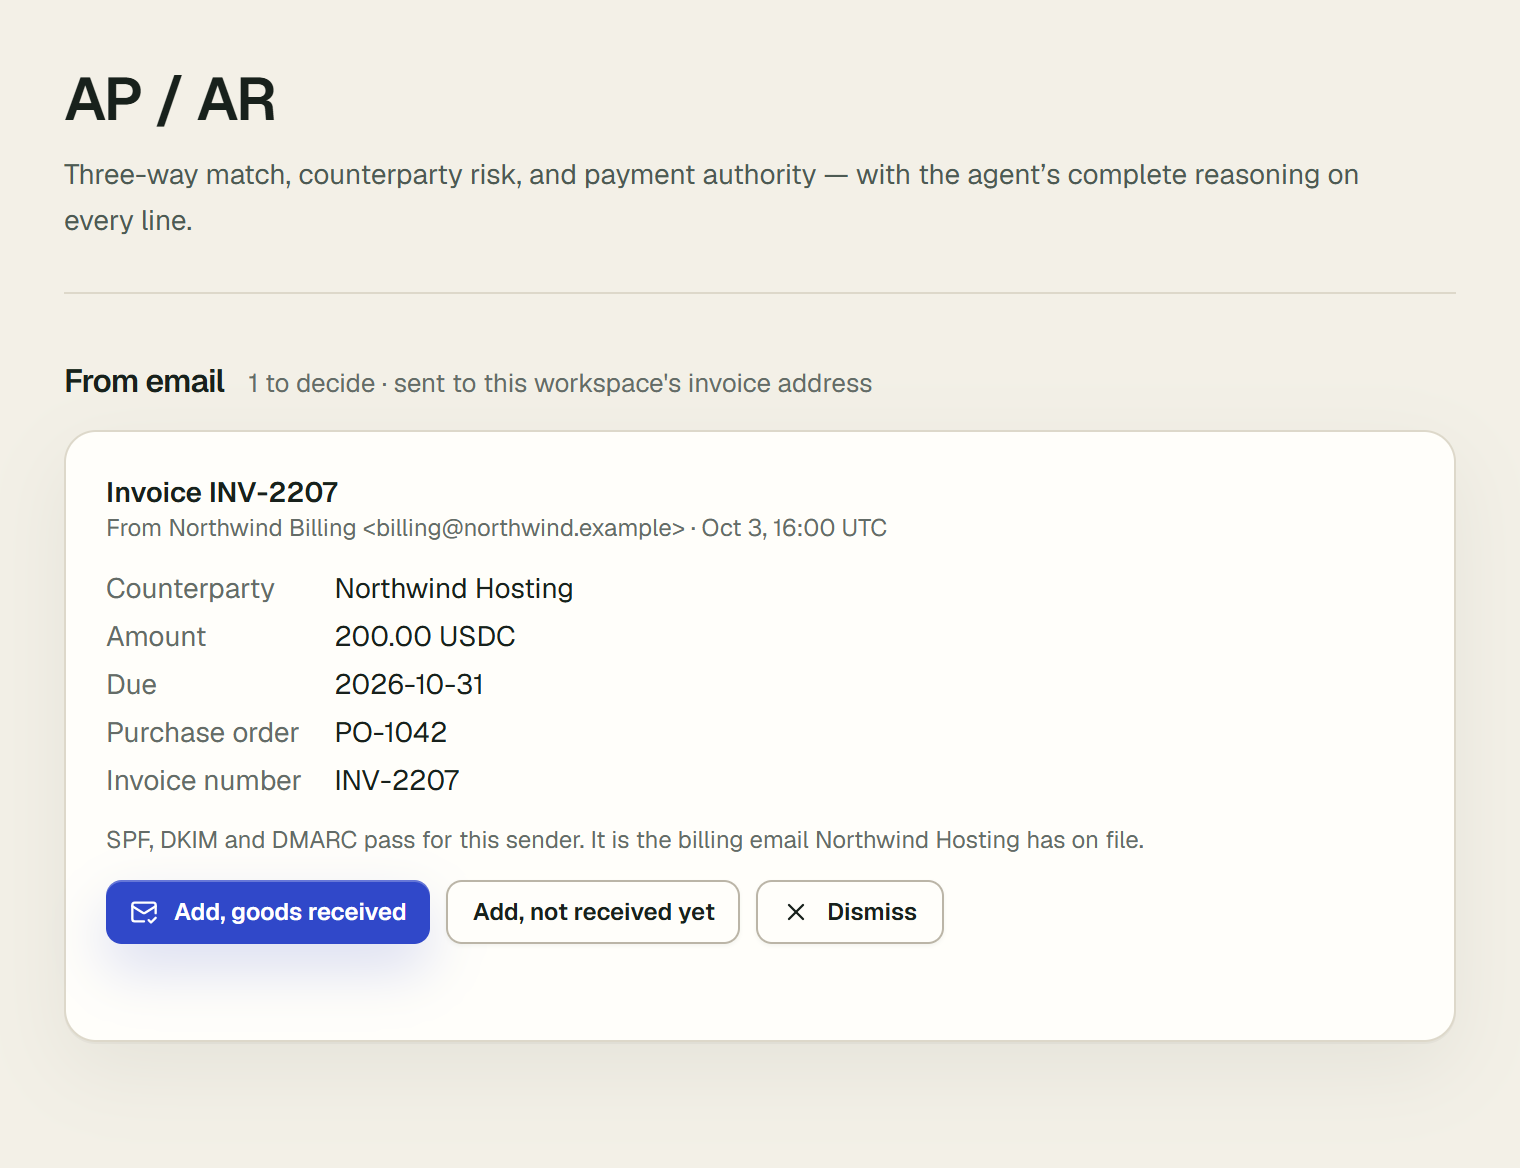
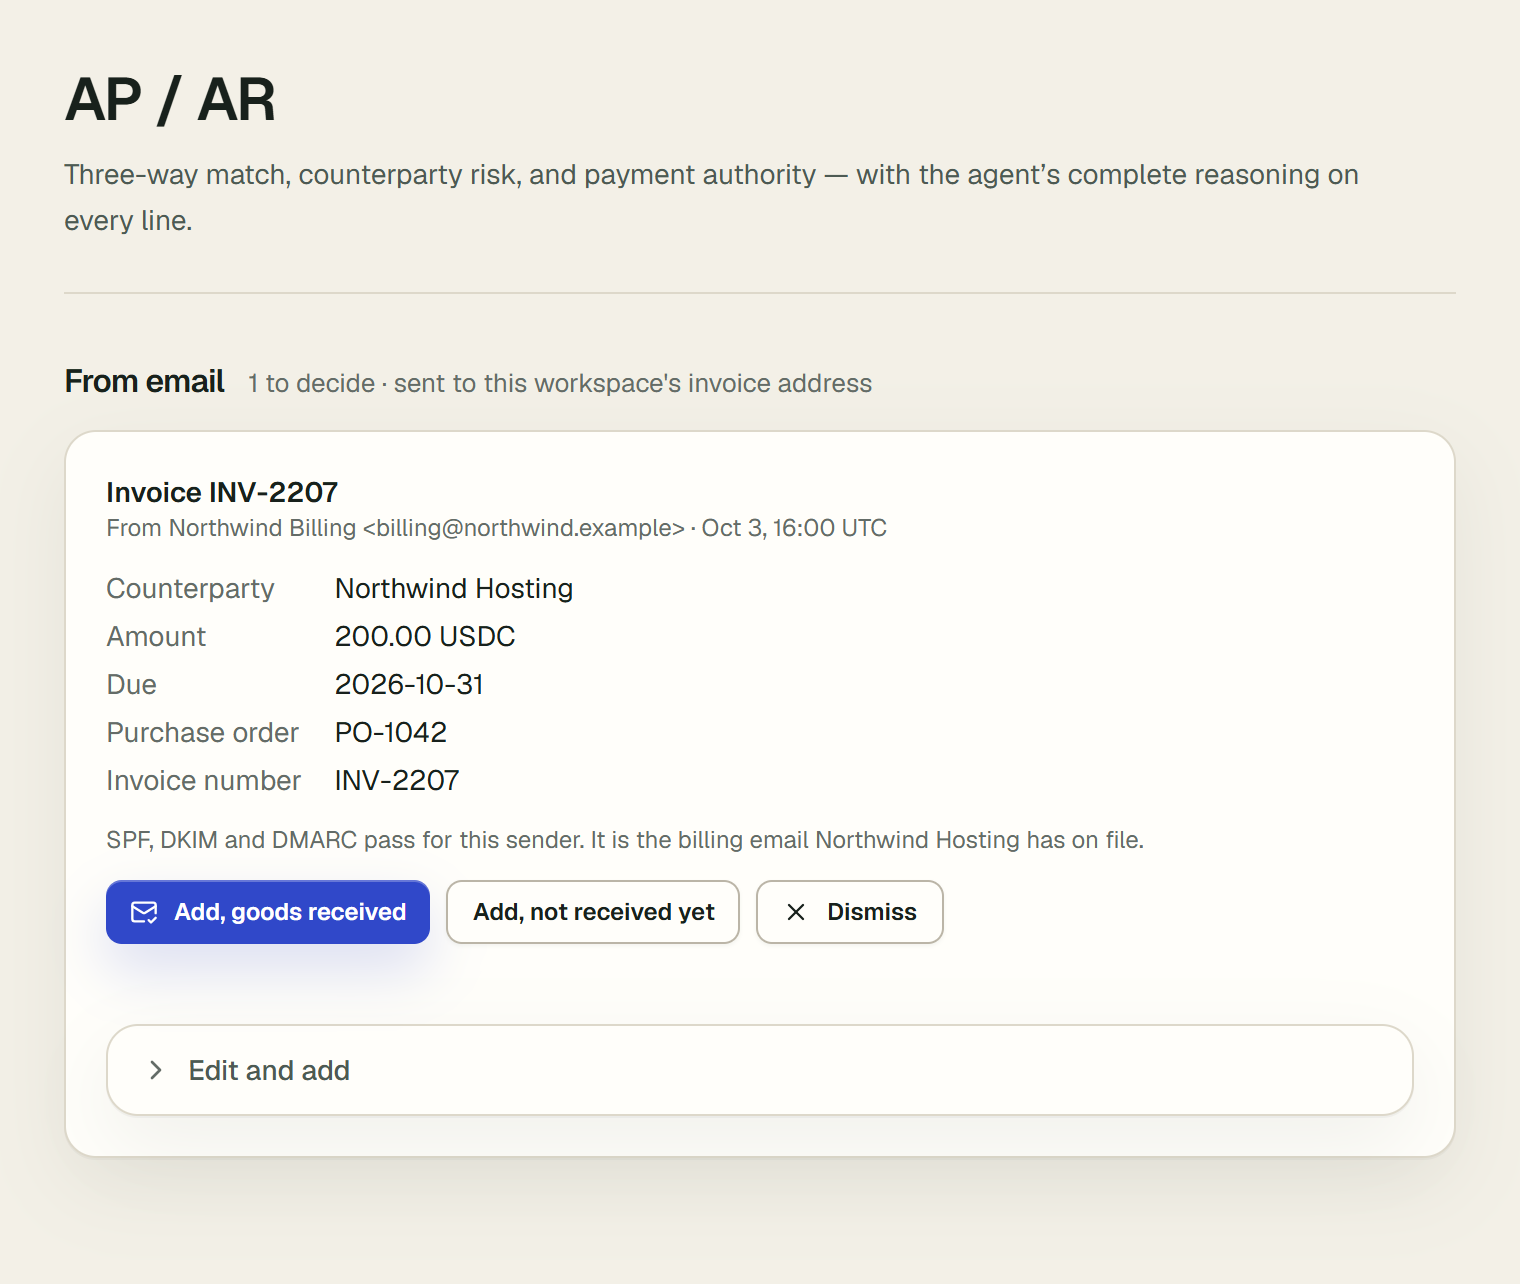
Read a plainly written due date as plain, and document finishing emailed invoices
A rerun of the twelve-invoice evaluation on the fixed reader showed the new
date note on a Vietnamese and a European invoice whose due dates are written
so they cannot swap (15/10/2026, 20.10.2026): in the pattern for a plainly
written numeric date, each backreference ran into the year ("\12026"), so it
never matched. Each is now closed off from the year, with a test for an
invoice date that could swap beside a due date that cannot.

Docs: the invoices-by-email guide covers Edit and add and Finish and add,
pictures and scans, decimal commas and the date note, with a new screenshot;
the first-payment guide's checks name decimal commas and the date note; the
changelog says create_invoice from an email can now list changed fields, and
carries no document when it was typed in; ARCHITECTURE, README and the email
invoices design (with its testnet-2 record and the follow-up rulings F1-F6).

Changed region(s): [[0.0618, 0.3699, 0.9586, 0.8938], [0.0309, 0.0616, 0.8967, 0.2158], [0.0309, 0.2774, 0.5875, 0.339]]

diff --git a/tests/docs-guides.test.ts b/tests/docs-guides.test.ts
@@ -39,6 +39,7 @@ const INVOICE_FORM = "src/components/intake/InvoiceIntake.tsx";
 const INVOICES_PAGE = "src/app/o/[slug]/invoices/page.tsx";
 const DOCUMENT_TAB = "src/components/intake/InvoiceDocumentIntake.tsx";
 const DOCUMENT_READ = "src/lib/invoice-document/read.ts";
+const DOCUMENT_NORMALIZE = "src/lib/invoice-document/normalize.ts";
 const GATEWAY_PANEL = "src/components/GatewayPanel.tsx";
 const ESCROW_PANEL = "src/components/EscrowPanel.tsx";
 const MILESTONE_ESCROW = "src/components/MilestoneEscrow.tsx";
@@ -289,6 +290,8 @@ const QUOTED: Record<GuideSlug, Array<readonly [string, string]>> = {
     ["Read invoice", DOCUMENT_TAB],
     ["The amount the model gave is not in the document, so it was left blank.", DOCUMENT_TAB],
     ["A document cannot say this; tick it only if you received them.", INVOICE_FORM],
+    ["which can also mean", DOCUMENT_NORMALIZE],
+    ["Check it against the invoice.", DOCUMENT_NORMALIZE],
     ["This PDF has no text to read; it may be a scan. Paste the invoice's text instead.", DOCUMENT_READ],
     ["Gateway balance", GATEWAY_PANEL],
     ["Amount to move from the operating wallet (USDC)", GATEWAY_PANEL],
@@ -575,6 +578,15 @@ const QUOTED: Record<GuideSlug, Array<readonly [string, string]>> = {
     ["Add, goods received", INBOX_EMAILS],
     ["Add, not received yet", INBOX_EMAILS],
     ["Dismiss", INBOX_EMAILS],
+    ["Fix what is missing with Finish and add.", INBOX_EMAILS],
+    ["Edit and add", INBOX_EMAILS],
+    ["Finish and add", INBOX_EMAILS],
+    ["Goods or services received", INVOICE_FORM],
+    ["Add invoice", INVOICE_FORM],
+    ["Its PDF has no text to read; it may be a scan. Ask the sender for the invoice as a PDF with text, or type it in with Finish and add.", INBOX_RECEIVE],
+    ["Its invoice is attached as an image (", INBOX_RECEIVE],
+    ["which Vestiarion cannot read yet. Ask the sender for the PDF, or type it in with Finish and add.", INBOX_RECEIVE],
+    ["Check it against the invoice.", DOCUMENT_NORMALIZE],
     ["Review in AP / AR", INBOX_RECEIVE],
     ["invoice_email_received", INBOX_RECEIVE],
     ["invoice_email_dismissed", INBOX_COMMANDS],

diff --git a/tests/invoice-document-normalize.test.ts b/tests/invoice-document-normalize.test.ts
@@ -138,6 +138,10 @@ describe("checking what the model read against the document", () => {
         ["Due 05.05.2026\nTotal due 0.80 USDC", "2026-05-05"],
         ["Date 10/04/2026\nDue November 3, 2026\nTotal due 0.80 USDC", "2026-11-03"],
         ["Date 10/04/2026\nDue 3 Nov 2026\nTotal due 0.80 USDC", "2026-11-03"],
+        // The invoice date could swap, but the due date is written so it cannot.
+        ["Ngày lập: 04/10/2026\nHạn thanh toán: 15/10/2026\nTotal due 0.80 USDC", "2026-10-15"],
+        ["Invoice date: 04.10.2026\nDue date: 20.10.2026\nTotal due 0.80 USDC", "2026-10-20"],
+        ["Invoice date: 04-10-2026\nDue date: 10-15-2026\nTotal due 0.80 USDC", "2026-10-15"],
       ]) {
         expect(normalize({ ...plain, issueDate: "2026-10-04", dueDate }, text).notes, text).toEqual([]);
       }

diff --git a/src/lib/invoice-document/normalize.ts b/src/lib/invoice-document/normalize.ts
@@ -195,7 +195,8 @@ function writtenPlainly(text: string, iso: string): boolean {
   const dayOf = `0?${day}(?:st|nd|rd|th)?`;
   if (new RegExp(`(?<!\\d)${dayOf}\\s+${name},?\\s+${year}|${name}\\s+${dayOf},?\\s+${year}`, "i").test(text)) return true;
   if (day <= 12 && day !== month) return false;
-  return new RegExp(`(?<![\\d./-])(?:0?${day}([./-])0?${month}\\1${year}|0?${month}([./-])0?${day}\\2${year})(?![\\d./-])`).test(text);
+  // Each backreference is closed off from the year after it: "\12026" would read as one escape, not \1 then 2026.
+  return new RegExp(`(?<![\\d./-])(?:0?${day}([./-])0?${month}(?:\\1)${year}|0?${month}([./-])0?${day}(?:\\2)${year})(?![\\d./-])`).test(text);
 }
 
 /**

diff --git a/docs/superpowers/specs/2026-10-03-email-invoices-design.md b/docs/superpowers/specs/2026-10-03-email-invoices-design.md
@@ -78,3 +78,45 @@ member, `via: "email"`; dismiss; roles); the docs-guides quotes.
    cannot read. Redeploy.
 4. testnet-2: Settings → Invoices by email → Turn on; forward the test PDF to the address; Add from AP / AR; the agent
    decides; the Slack channel was told.
+
+**Record (2026-10-03/04, testnet-2).** The first real email (18:14 UTC) was stored and its sender checks read, but it
+was marked unreadable: Resend serves a received attachment's `download_url` from `cdn.resend.app`, and the download
+allowed only `resend.com`. Fixed in PR #185, which also logs why an attachment was not fetched. Then, on 2026-10-04: an
+email from Gmail with `Invoice-TH-2026-1004.pdf` arrived at 02:04:16 UTC, read by DeepSeek into a ready draft (ledger
+#1250, `invoice_email_received`, SPF, DKIM and DMARC pass); a person chose Add, goods received at 02:07:13 (#1251,
+`create_invoice`, `via: "email"`, no field changed); the agent brought 0.472501 USDC back from the USYC reserve (#1253)
+and paid Trading Handrock 0.60 USDC (#1254, DeepSeek at 0.9, agreeing with the policy), confirmed on Arc testnet at
[1 lines of base64/hex data omitted]
+
+## 6. Follow-up: invoices as people send them (2026-10-04)
+
+Twelve invoices in common layouts were read through the same steps as production (DeepSeek, testnet-2's
+counterparties, twice, with the same results): a Stripe-like USD invoice, a QuickBooks-like one with a US numeric date
+and Net 30, a European one with dotted dates and euros, a freelancer's note with a due date without a year, one that
+tries to instruct the reader and asks for a new address, one in GBP, one from an unknown vendor, a receipt, a scan, a
+Vietnamese one with a decimal comma, one with day-first numeric dates, and an email whose invoice is a photo. Six were
+ready and right, four were refused with the right reason; these did not hold up, and are now ruled:
+
+- **F1. Decimal commas.** "3,50 USDC" was read by the model and then blanked, because review C1 refused any decimal
+  comma. A comma before one or two final digits, with plain digits or point/space groups of three before it, is a
+  decimal comma ("3,50" is 3.50, "1.200,00" and "1 200,00" are 1200.00), in the model's reading and in the document the
+  figure is checked against; a comma before three digits stays a thousands separator, so C1's harm, "12,50" read as
+  1250, still cannot happen.
+- **F2. Dates whose day and month could swap.** A due date read from such a numeric date (03/11/2026), or worked out
+  from such an invoice date when the due date is not written plainly, gets a note naming both days and the one taken.
+  Information only: the draft still adds.
+- **F3. The total by rule.** The reference reading takes the figure written against a currency code or symbol on the
+  total line, so "Total: 45 USDC. Please pay by Oct 20." no longer raises a false "total line reads 20" warning.
+- **F4. Pictures and scans by email.** An email whose invoice is a picture attached to it says so first, rather than
+  "no amount could be read" from its own words; a scan no longer says to paste text, which the inbox cannot take.
+- **F5. Finish and add.** Every email still to decide (ready, needs details, unreadable) carries the invoice form,
+  started from what was read: Edit and add, or Finish and add. It is always a payable, posted with the email to
+  `inbox.finish` (records.write, as `inbox.add`): the email is claimed once from the status it had and put back if the
+  invoice cannot be added; `create_invoice` names `via: "email"`, `inboxEmailId`, and, when the email was read, the
+  document's kind, hash and reader with the fields the person changed (against the stored draft for a ready email,
+  else against what was read).
+- **F6. What is kept of a read.** The stored read also keeps the matched counterparty's id, the discount fields and the
+  document's kind and hash; emails stored before keep working without them (the counterparty is matched by name).
+
+Not done: reading pictures (the workspace's model may have no vision; a person types the invoice in instead), and
+statements that list several invoices.

diff --git a/ARCHITECTURE.md b/ARCHITECTURE.md
@@ -518,12 +518,17 @@ once in `inbox_emails` (tenant rows, one per Resend email, so a redelivery
 stores nothing new), answers 200, and reads it in `after()`
 (`src/lib/email-inbox/receive.ts`): the email and its first PDF, `.eml` or
 `.txt` attachment from Resend's receiving API (the download only from Resend's
-hosts), else its text, through the same `readInvoiceDraft` and the shared draft
-rule. The row ends `ready`, `needs_details` or `unreadable`, with reasons a
-person reads; the workspace's Slack channel is told. Nothing is added by
-itself: on AP / AR an owner or admin runs `inbox.add` (the draft used once, put
-back if the invoice cannot be added; `create_invoice` names `via: "email"` and
-`inboxEmailId`) or `inbox.dismiss`.
+own domains, `resend.com` and `resend.app`), else its text, through the same
+`readInvoiceDraft` and the shared draft rule; a picture attached instead of a
+document is named in the reasons. The row ends `ready`, `needs_details` or
+`unreadable`, with reasons a person reads, and keeps what was read (with the
+matched counterparty's id and the document's hash); the workspace's Slack
+channel is told. Nothing is added by itself: on AP / AR an owner or admin runs
+`inbox.add` (the draft used once, put back if the invoice cannot be added;
+`create_invoice` names `via: "email"` and `inboxEmailId`), `inbox.finish` (the
+invoice form started from what was read, for any email ready, needing details
+or unreadable; the entry also lists the fields the person changed) or
+`inbox.dismiss`.
 
 **A workspace can connect GitHub**
 (docs/superpowers/specs/2026-10-04-github-app-design.md). One GitHub App serves

diff --git a/README.md b/README.md
@@ -120,8 +120,9 @@ is hard-coded into the interface:
    [guide](https://www.vestiarion.xyz/docs/guides/slack)).
 9. **Invoices by email** — an owner or admin turns on a workspace address in **Settings**; an
    invoice forwarded there is read as **From a document** reads one, and waits on **AP / AR** for a
-   person to add it with one press, or dismiss it. Nothing that arrives by email is added or paid by
-   itself; the sender's SPF/DKIM/DMARC results are shown, never trusted
+   person to add it with one press, fix it in the invoice form first (**Edit and add**, **Finish and
+   add**), or dismiss it. Nothing that arrives by email is added or paid by itself; the sender's
+   SPF/DKIM/DMARC results are shown, never trusted
    (`src/lib/email-inbox/`, [guide](https://www.vestiarion.xyz/docs/guides/email-invoices)).
 
 Every decision is made by asking an LLM for a structured `{action, reasoning, confidence}` verdict
